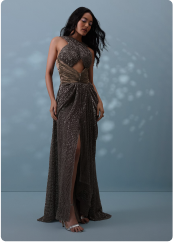
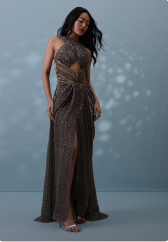
⬆update: product card

diff --git a/src/components/productCard/productCard.tsx b/src/components/productCard/productCard.tsx
@@ -11,17 +11,17 @@ const ProductCard: React.FC<{
     <div
       className={`relative aspect-[3/4] ${
         !takeFull && 'max-w-[24.5rem]'
-      } flex-shrink-0 rounded-lg border-2 border-gray-100 p-2 hover:border-gray-300 hover:shadow-md`}
+      } flex-shrink-0 border-2 border-white hover:border-gray-700 hover:shadow-md`}
     >
       <Link href={`/product/${slug}`} className="">
         <div className="h-full w-full rounded-md bg-gray-100">
           <img
             src="/temp/Western Wear.png"
-            className="h-full w-full object-contain"
+            className="h-full w-full object-cover"
             alt=""
           />
         </div>
-        <div>
+        <div className="px-2">
           <div>
             Mint Green Printed Palazzo Suit In Chanderi With Embroidery Mint
             Green Printed

diff --git a/src/pages/category/[categoryName].tsx b/src/pages/category/[categoryName].tsx
@@ -54,7 +54,7 @@ const CategoryPage: NextPage<{ categoryName: string }> = ({ categoryName }) => {
               </span>
             </div>
 
-            <div className="grid grid-cols-1 gap-4 sm:grid-cols-1 md:grid-cols-1 lg:grid-cols-2 xl:grid-cols-3">
+            <div className="grid grid-cols-2 sm:grid-cols-1 md:grid-cols-1 lg:grid-cols-2 xl:grid-cols-3">
               {Array(12)
                 .fill(null)
                 .map((value, index) => (
